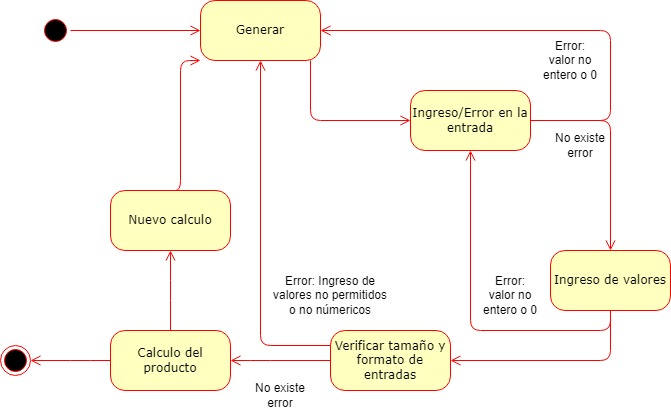
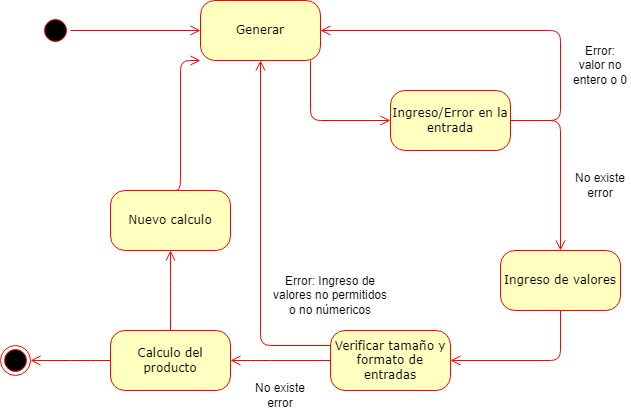
estados agregado

diff --git a/README.md b/README.md
@@ -250,4 +250,4 @@ Tiempo necesario =0.6 MESES
 ![Diagrama de clases](/img/matrices-secuencia.png)
 
 ## **Diagrama de estados**
-![Diagrama de estados](/img/matrices-Estados(2).jpeg)
+![Diagrama de estados](/img/matrices-Estados.jpeg)
